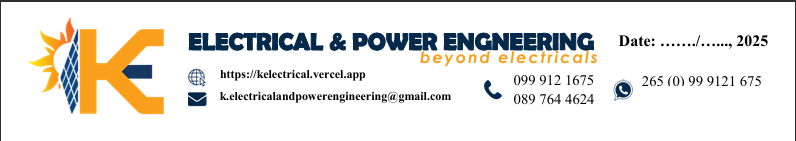
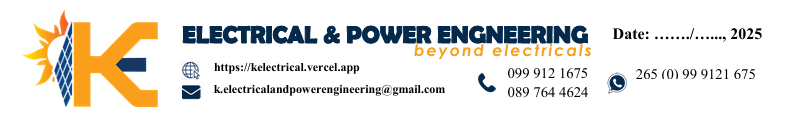
adjuting dimesions on letter head

Changed region(s): [[0.0306, 0.096, 0.9783, 0.864], [0.5809, 0.528, 0.9783, 0.792], [0.0, 0.0, 1.0, 0.024]]

diff --git a/src/components/DocumentPreview.tsx b/src/components/DocumentPreview.tsx
@@ -58,9 +58,9 @@ export function DocumentPreview({ doc, open, onOpenChange }: DocumentPreviewProp
                 <span
                   style={{
                     position: "absolute",
-                    bottom: 8,
-                    right: 12,
-                    fontSize: 9,
+                    top: 20,
+                    right: 8,
+                    fontSize: 14,
                     color: "#000",
                     fontWeight: "bold",
                     letterSpacing: "0.5px",
@@ -73,7 +73,7 @@ export function DocumentPreview({ doc, open, onOpenChange }: DocumentPreviewProp
               {/* Separator */}
               <div
                 style={{
-                  borderBottom: "1.5px solid #1e3a8a",
+                  // borderBottom: "1.5px solid #1e3a8a",
                   marginBottom: 12,
                 }}
               />
@@ -83,7 +83,7 @@ export function DocumentPreview({ doc, open, onOpenChange }: DocumentPreviewProp
                 <span>Att: {doc.content?.attention_to || ""}</span>
                 <span
                   style={{
-                    borderBottom: "1px dotted #000",
+                    // borderBottom: "1px dotted #000",
                     display: "inline-block",
                     flex: 1,
                     width: "70%",
